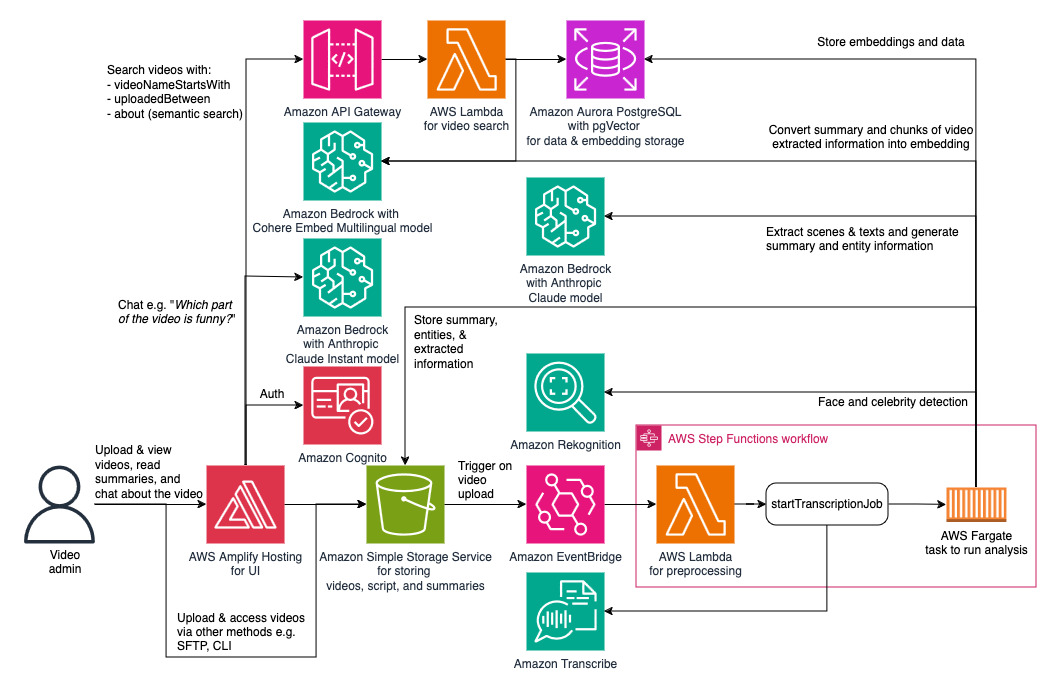
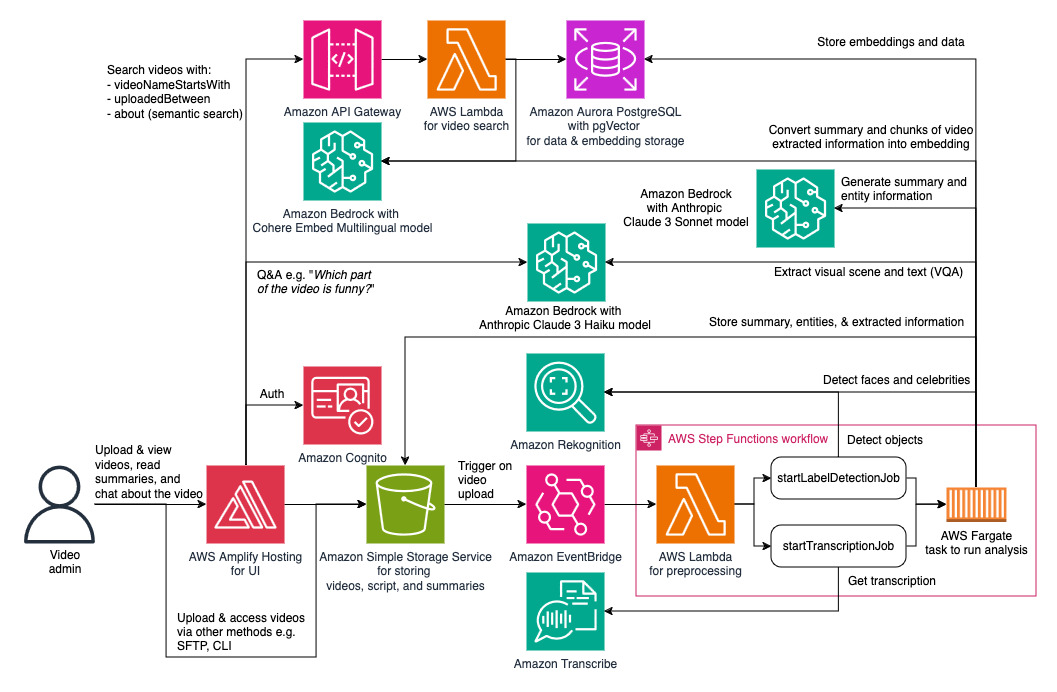
fixed vqa integration

diff --git a/webui/src/VideoTable/VideoTable.js b/webui/src/VideoTable/VideoTable.js
@@ -248,7 +248,12 @@ export class VideoTable extends Component {
   }
 
   async retrieveAnswerForShortVideo(video, systemPrompt){
-    var [videoScriptPrompt, chatPrompt, closingPrompt] = ["","",""]
+    var [videoScriptPrompt, chatPrompt] = ["",""]
+
+    videoScriptPrompt += "To help you, here is the summary of the whole video that you previously wrote:\n"
+    videoScriptPrompt += `${video.summary}\n\n`
+    videoScriptPrompt += "Also, here are the entities and sentiment that you previously extracted. Each row is entity|sentiment|sentiment's reason:\n"
+    videoScriptPrompt += `${video.rawEntities}\n\n`
 
     videoScriptPrompt += "Below is the video timeline with information about the voice heard in the video, visual scenes seen, visual text visible, and any face or celebrity detected. "
     videoScriptPrompt += "For voice, the same speaker number ALWAYS indicates the same person.\n"
@@ -262,13 +267,9 @@ export class VideoTable extends Component {
     if (video.chatLength <= this.maxCharactersForChat || video.chatSummary == ""){ 
       for (const i in video.chats){
         if (video.chats[i].actor == "You"){
-          if(video.chats.length == 1) {
-            chatPrompt += video.chats[i].text
-          }else{
-            chatPrompt += "\n\nHuman: " + video.chats[i].text
-          }
+          chatPrompt += "\nUser: " + video.chats[i].text
         }else{
-          chatPrompt += "\n\nAssistant: " + video.chats[i].text
+          chatPrompt += "\nYou: " + video.chats[i].text
         }
       }
     }else{ // If the chat history is too long, so that we include the summary of the chats + last chat only.
@@ -279,15 +280,18 @@ export class VideoTable extends Component {
       chatPrompt += "Answer the user's reply above directly, without any XML tag.\n"
     }
 
-    closingPrompt += "\n\nAssistant:"
-
-    const prompt = systemPrompt + videoScriptPrompt + chatPrompt + closingPrompt
+    const prompt = videoScriptPrompt + chatPrompt
 
     const input = { 
       body: JSON.stringify({
-        prompt: prompt,
+        anthropic_version: "bedrock-2023-05-31",    
+        system: systemPrompt,
+        messages: [
+            { role: "user", content: prompt},
+            { role: "assistant", content: "Here is my succinct answer:"}
+        ],
         temperature: 0.1,
-        max_tokens_to_sample: 1000,
+        max_tokens: 1000,
         stop_sequences: ["\nUser:"]
       }), 
       modelId: this.modelId, 
@@ -309,6 +313,11 @@ export class VideoTable extends Component {
     // For every video fragment, try to find the answer to the question, if and not found just write partial answer and go to next iteration.
     while(currentFragment <= numberOfFragments){
       var [videoScriptPrompt, chatPrompt, instructionPrompt, partialAnswerPrompt] = ["","","",""]
+
+      videoScriptPrompt += "To help you, here is the summary of the whole video that you previously wrote:\n"
+      videoScriptPrompt += `${video.summary}\n\n`
+      videoScriptPrompt += "Also, here are the entities and sentiment that you previously extracted. Each row is entity|sentiment|sentiment's reason:\n"
+      videoScriptPrompt += `${video.rawEntities}\n\n`
 
       // Construct the prompt containing the video script (the text representation of the current part of the video)
       videoScriptPrompt += "The video timeline has information about the voice heard in the video, visual scenes seen, visual texts visible, and any face or celebrity detected. "
@@ -361,14 +370,19 @@ export class VideoTable extends Component {
         instructionPrompt += "This partial answer will be included when we ask you again right after this by giving the video timeline for the next part, so that you can use the current partial answer.\n"
         instructionPrompt += `For question that needs you to see the whole video such as "is there any?", "does it have", "is it mentioned", DO NOT provide final answer until we give you all ${numberOfFragments} parts of the video timeline.\n`
       }
-      instructionPrompt += "\n\nAssistant:"
 
-      const prompt = systemPrompt + videoScriptPrompt + chatPrompt + partialAnswerPrompt + instructionPrompt
+      const prompt = videoScriptPrompt + chatPrompt + partialAnswerPrompt + instructionPrompt
       
       const input = { 
         body: JSON.stringify({
-          prompt: prompt,
-          max_tokens_to_sample: 1000,
+          anthropic_version: "bedrock-2023-05-31",    
+          system: systemPrompt,
+          messages: [
+              { role: "user", content: prompt},
+              { role: "assistant", content: "Here is my succinct answer:"}
+          ],
+          temperature: 0.1,
+          max_tokens: 1000,
           stop_sequences: ["\nUser:"]
         }), 
         modelId: this.modelId, 
@@ -376,7 +390,7 @@ export class VideoTable extends Component {
         accept: "application/json"
       };
       const response = await this.bedrockClient.send(new InvokeModelCommand(input)); 
-      rollingAnswer = JSON.parse(new TextDecoder().decode(response.body)).completion
+      rollingAnswer = JSON.parse(new TextDecoder().decode(response.body)).content[0].text
 
       // When the answer is found without having to go through all video fragments, then break and make it as a final answer.
       if (rollingAnswer.includes("|BREAK|")) {
@@ -398,7 +412,7 @@ export class VideoTable extends Component {
 
     this.addChatWaitingSpinner(video)
 
-    var systemPrompt = "\n\nHuman: You are an expert in analyzing video and you can answer questions about the video given the video timeline.\n"
+    var systemPrompt = "You are an expert in analyzing video and you can answer questions about the video given the video timeline.\n"
     systemPrompt += "Answer in the same language as the question from user.\n"
     systemPrompt += "If you do not know, say do not know. DO NOT make up wrong answers.\n" 
     systemPrompt += "The Human who asks can watch the video and they are not aware of the 'video timeline' which will be copied below. So, when answering, DO NOT indicate the presence of 'video timeline'. DO NOT quote raw information as is from the 'video timeline'\n"
@@ -411,11 +425,8 @@ export class VideoTable extends Component {
     systemPrompt += "Answer: It was mentioned at around 14 seconds mark that the narrator, Tom Bush, who is a business partner of XYZ, praises the XYZ company.\n"
     systemPrompt += "Question: Did Oba smile at the end of the video?\n"
     systemPrompt += "Answer: Yes he did.\n"
-    systemPrompt += "\n\n"
-    systemPrompt += "To help you, here is the summary of the whole video that you previously wrote:\n"
-    systemPrompt += `${video.summary}\n\n`
-    systemPrompt += "Also, here are the entities and sentiment that you previously extracted. Each row is entity|sentiment|sentiment's reason:\n"
-    systemPrompt += `${video.rawEntities}\n\n`
+    systemPrompt += "Question: When did he smile?\n"
+    systemPrompt += "Answer: He smiled at 5.5 and 7 second marks.\n"
 
     if(video.videoScript.length < this.maxCharactersForSingleLLMCall){
       await this.retrieveAnswerForShortVideo(video, systemPrompt) 
@@ -440,9 +451,11 @@ export class VideoTable extends Component {
     for await (const event of response.body) {
         if (event.chunk && event.chunk.bytes) {
             const chunk = JSON.parse(Buffer.from(event.chunk.bytes).toString("utf-8"));
-            video.chats[video.chats.length - 1].text += chunk.completion
-            video.chatLength += chunk.completion.length // Increment the length of the chat
-            this.setState({videos: this.state.videos})
+            if(chunk.type == "content_block_delta"){
+              video.chats[video.chats.length - 1].text += chunk.delta.text
+              video.chatLength += chunk.delta.text.length // Increment the length of the chat
+              this.setState({videos: this.state.videos})
+            }
         }
     };
   }
@@ -461,7 +474,8 @@ export class VideoTable extends Component {
     // If the chats between bot and human is roughly more than 5000 characters (1250 tokens) then summarize the chats, otherwise ignore and return.
     if (video.chatLength < this.maxCharactersForChat) return;
 
-    var prompt = "\n\nHuman: You are an expert in summarizing chat. The chat is between user and a bot. The bot answers questions about a video.\n"
+    var systemPrompt = "You are an expert in summarizing chat. The chat is between user and a bot. The bot answers questions about a video.\n"
+    var prompt = ""
 
     if (video.chatSummary == ""){
       prompt += "Find the chat below.\n<Chat>\n"
@@ -480,12 +494,17 @@ export class VideoTable extends Component {
       prompt += `<Reply>\n${video.chats[video.chats.length - 1].text}\n</Reply>\n`
       prompt += "Summarize the whole chat including your newest reply in no longer than 1 page."
     }
-    prompt += "\n\nAssistant:"
 
     const input = { 
       body: JSON.stringify({
-        prompt: prompt,
-        max_tokens_to_sample: Math.round(this.maxCharactersForChat/this.estimatedCharactersPerToken),
+        anthropic_version: "bedrock-2023-05-31",    
+        system: systemPrompt,
+        messages: [
+            { role: "user", content: prompt},
+            { role: "assistant", content: "Here is my succinct answer:"}
+        ],
+        temperature: 0.1,
+        max_tokens: Math.round(this.maxCharactersForChat/this.estimatedCharactersPerToken),
         stop_sequences: ["\nUser:", "\nYou:"]
       }), 
       modelId: this.modelId, 
@@ -493,7 +512,7 @@ export class VideoTable extends Component {
       accept: "application/json"
     };
     const response = await this.bedrockClient.send(new InvokeModelCommand(input));
-    video.chatSummary = JSON.parse(new TextDecoder().decode(response.body)).completion
+    video.chatSummary = JSON.parse(new TextDecoder().decode(response.body)).content[0].text
     this.setState({videos: this.state.videos})
   }
 

diff --git a/webui/src/aws-exports.js b/webui/src/aws-exports.js
@@ -16,4 +16,3 @@ export default {
     "rest_api_url": "PLACEHOLDER_REST_API_URL",
     "videos_api_resource": "PLACEHOLDER_VIDEOS_API_RESOURCE"
 }
-

diff --git a/lib/main_analyzer/index.py b/lib/main_analyzer/index.py
@@ -874,7 +874,7 @@ class VideoAnalyzer(ABC):
                     "Your answer should include entities found from previous part/s as well. DO NOT duplicate entities.\n" \
                     "</Task>\n\n"
                     
-                    chunk_sentiment = self.call_llm(system_prompt, prompt, prefilled_response, temperature=0.1, stop_sequences=["<Task>"])
+                    chunk_sentiment = self.call_llm(system_prompt, prompt, prefilled_response, temperature=0.01, stop_sequences=["<Task>"])
                     self.video_rolling_sentiment = chunk_sentiment
                 elif is_first_chunk:
                     prompt = f"The video has {number_of_chunks} parts. The below Video Timeline is only for the first part.\n\n" \
@@ -898,7 +898,7 @@ class VideoAnalyzer(ABC):
                     "I know you need all parts of the video to come with the entity list. Therefore, for now you only need to give an INTERMEDIATE results by listing the entities you have in this first part of the video.\n" \
                     "</Task>\n\n"
                     
-                    chunk_sentiment = self.call_llm(system_prompt, prompt, prefilled_response, temperature=0.8, stop_sequences=["<Task>"])
+                    chunk_sentiment = self.call_llm(system_prompt, prompt, prefilled_response, temperature=0.01, stop_sequences=["<Task>"])
                     self.video_rolling_sentiment = chunk_sentiment
                 else:
                     prompt = f"The video has {number_of_chunks} parts. The below Video Timeline is only for part {chunk_number+1} of the video.\n\n" \
@@ -924,7 +924,7 @@ class VideoAnalyzer(ABC):
                     "I know you need all parts of the video to come with the entity list. Therefore, for now you only need to give an INTERMEDIATE results by listing the entities you have so far. DO NOT duplicate entities.\n" \
                     "</Task>\n\n"
                     
-                    chunk_sentiment = self.call_llm(system_prompt, prompt, prefilled_response, temperature=0.8, stop_sequences=["<Task>"])
+                    chunk_sentiment = self.call_llm(system_prompt, prompt, prefilled_response, temperature=0.01, stop_sequences=["<Task>"])
                     self.video_rolling_sentiment = chunk_sentiment
                 
         return self.video_rolling_sentiment
@@ -1094,7 +1094,7 @@ class VideoAnalyzerBedrock(VideoAnalyzer):
         call_done = False
         while(not call_done):
             try:
-                bedrock_response = self.bedrock_client.invoke_model(body=encoded_input, modelId=self.vmodel_name)
+                bedrock_response = self.bedrock_client.invoke_model(body=encoded_input, modelId=self.model_name)
                 call_done = True
             except self.bedrock_client.exceptions.ThrottlingException as e:
                 print("Amazon Bedrock throttling exception")
@@ -1116,7 +1116,7 @@ class VideoAnalyzerBedrock(VideoAnalyzer):
             try:
                 response = self.bedrock_client.invoke_model(body=body, modelId=self.embedding_model_name)
                 call_done = True
-            except ThrottlingException:
+            except self.bedrock_client.exceptions.ThrottlingException:
                 print("Amazon Bedrock throttling exception")
                 time.sleep(60)
             except Exception as e:

diff --git a/lib/cognito_user_setup/index.py b/lib/cognito_user_setup/index.py
@@ -24,8 +24,6 @@ def on_create(event):
     
     user_pool = client.describe_user_pool(UserPoolId=props['user_pool_id'])['UserPool']
     
-    print(user_pool)
-    
     user_pool['AdminCreateUserConfig'] = {}
 
     user_pool['AdminCreateUserConfig']['AllowAdminCreateUserOnly'] = True
@@ -34,9 +32,6 @@ def on_create(event):
     user_pool['AdminCreateUserConfig']['InviteMessageTemplate']['SMSMessage'] = f"Hello {{username}}. Temporary password is {{####}}  The video understanding portal will be at {props['url']}"
     user_pool['AdminCreateUserConfig']['InviteMessageTemplate']['EmailMessage'] = f"Hello {{username}}, welcome to video understanding solution. Your temporary password is {{####}}  The video understanding portal will be at {props['url']}"
     user_pool['AdminCreateUserConfig']['InviteMessageTemplate']['EmailSubject'] = 'Welcome to the video understanding solution'
-  
-    
-    print(user_pool)
     
     response = client.update_user_pool(
         UserPoolId=props['user_pool_id'],

diff --git a/README.md b/README.md
@@ -2,9 +2,9 @@
 
 ## Introduction
 
-This is a deployable solution which can help save your time in understanding the videos you have without having to watch every video. This solution automatically generate AI-powered summary and entities extraction of each video uploaded to your Amazon Simple Storage Service (S3) bucket. It also allows you to ask questions about the video in a UI chatbot experience, like "What is funny about the video?" and "How does Jeff Bezos look like in this video?". You can also use the search filter to search for videos using generative-AI-powered semantic search e.g. "Amazon's culture and history". This solution extracts information from visual scenes, audio, visible texts, and detected celebrities or faces in the video. It leverages an LLM which can understand visual and describe the video frames.
+This is a deployable solution to help save your time in understanding videos without having to watch every video. You can upload videos and this solution can generate AI-powered summary and entities extraction for each video. It also supports Q&A about the video like "What is funny about the video?", "How does Jeff Bezos look like there?", and "What shirt did he wear?". You can also search for videos using semantic search e.g. "Amazon's culture and history". This solution extracts information from visual scenes, audio, visible texts, and detected celebrities or faces in the video. It leverages an LLM which can understand visual and describe the video frames.
 
-You can upload videos to your S3 bucket by using AWS console, CLI, SDK, or other means (e.g. via AWS Transfer Family). This solution will automatically trigger processes including call to Amazon Transcribe for voice transcription and call to Amazon Bedrock with Claude 3 model to extract scenes and text. The LLM used can perform VQA (visual question answering) from images (video frames), which is used to extract the scene, text, and whether face is detected. When face is identified from the visual scene extraction, it will use celebrity and face detection by Amazon Rekognition. This combined information is used to generate the summary and entities extraction as powered by generative AI with Amazon Bedrock. The UI chatbot also uses Amazon Bedrock for the Q&A chatbot. The summaries, entities, and combined extracted information are stored in S3 bucket, available to be used for further custom analytics. Refer to the diagram below on the architecture.
+You can upload videos to your Amazon Simple Storage Service (S3) bucket bucket by using AWS console, CLI, SDK, or other means (e.g. via AWS Transfer Family). This solution will automatically trigger processes including call to Amazon Transcribe for voice transcription, call to Amazon Rekognition to extract the objects visible, and call to Amazon Bedrock with Claude 3 model to extract scenes and visually visible text. The LLM used can perform VQA (visual question answering) from images (video frames), which is used to extract the scene and text. This combined information is used to generate the summary and entities extraction as powered by generative AI with Amazon Bedrock. The UI chatbot also uses Amazon Bedrock for the Q&A chatbot. The summaries, entities, and combined extracted information are stored in S3 bucket, available to be used for further custom analytics. Refer to the diagram below on the architecture.
 
 ![Architecture](./assets/architecture.jpg)
 
@@ -72,7 +72,7 @@ The cost of using this solution is determined by the pricing and usage of the co
 
 2. More variable components (driven mainly by the total number of video minutes being processed and the activities e.g. chat):
 
-    2.1. Amazon Rekognition - Pricing is [here](https://aws.amazon.com/rekognition/pricing/). You may be eligible for its FREE TIER for image analysis. This solution uses DetectFaces and RecognizeCelebrities image APIs. The cost can vary based on the number of detected faces in the whole videos.
+    2.1. Amazon Rekognition - Pricing is [here](https://aws.amazon.com/rekognition/pricing/). You may be eligible for its FREE TIER for image and video analysis. This solution uses StartLabelDetection and GetLabelDetection video APIs in addition to DetectFaces and RecognizeCelebrities image APIs. The cost can vary based on the number of detected faces in the whole videos.
 
     2.2. Amazon Transcribe - Pricing is [here](https://aws.amazon.com/transcribe/pricing/). Youo may be eligible for its FREE TIER. This solution uses Standard Batch transcription. The cost can vary based on the video duration and the number of videos being processed.
 
@@ -93,7 +93,7 @@ It is recommended to test with smaller number of shorter videos first and observ
 
 1. Currently only .mp4/.MP4 video files are supported
 2. The language supported is limited by the language supported by Amazon Rekognition text detection, Amazon Transcribe, and the models used in Amazon Bedrock.
-3. Summary generation and entity extraction is tested for video up to 3+ hours. However, the chat feature works best for video under 15 minutes in terms of latency.
+3. This works best for video under 15 minutes. It may have issue or show slow latency for very long video at the moment.
 4. Video file names (when uploaded) must adhere to the [S3 object key pattern](https://docs.aws.amazon.com/AmazonS3/latest/userguide/object-keys.html). When uploaded via this solution's UI, it will automatically convert non-compliant characters to _ (underscore).
 
 ## Removal
@@ -129,3 +129,8 @@ This information is meant for the contributors of the repository or builders who
 ## License
 
 This library is licensed under the MIT-0 License. See the LICENSE file.
+
+## Notes
+
+* The facial recognition in this solution is provided by Amazon Rekognition.
+* Please refer to the CODE_OF_CONDUCT.md file to see the terms of use and acceptable use policy. Some AI models have prohibition on what to use the model for. Refer to the architecture diagram above to see what models are being used by this solution and for which part.

diff --git a/CODE_OF_CONDUCT.md b/CODE_OF_CONDUCT.md
@@ -2,3 +2,9 @@
 This project has adopted the [Amazon Open Source Code of Conduct](https://aws.github.io/code-of-conduct).
 For more information see the [Code of Conduct FAQ](https://aws.github.io/code-of-conduct-faq) or contact
 opensource-codeofconduct@amazon.com with any additional questions or comments.
+
+In addition, the acceptable use policy from the models used by the solution also applies. 
+See:
+* https://www.anthropic.com/legal/aup
+* The EULA files for Anthropic Claude 3 Sonnet & Haiku models and Cohere Embed Multilingual model which can be seen from this page Amazon Bedrock model access page. Follow this instruction to go to the page https://docs.aws.amazon.com/bedrock/latest/userguide/model-access.html
+
